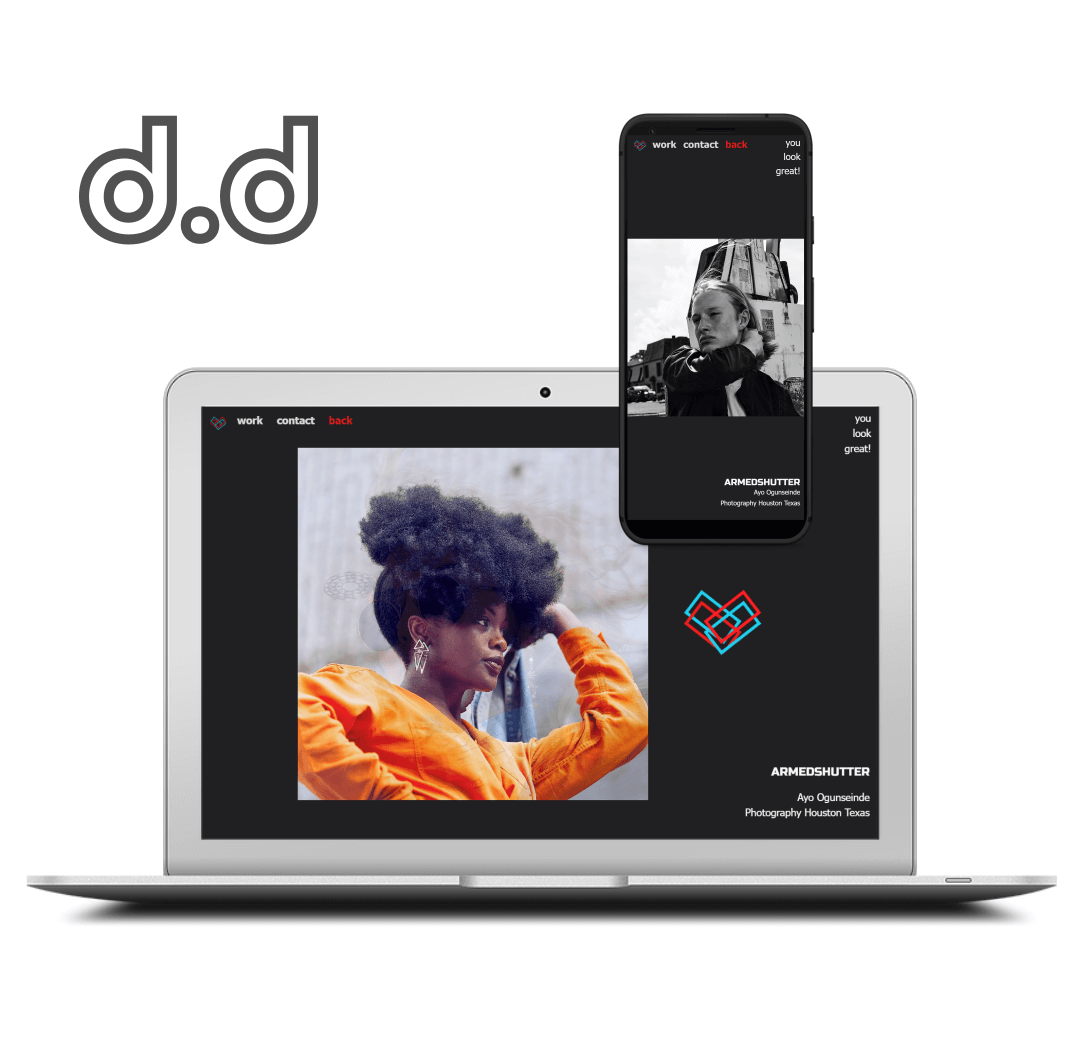
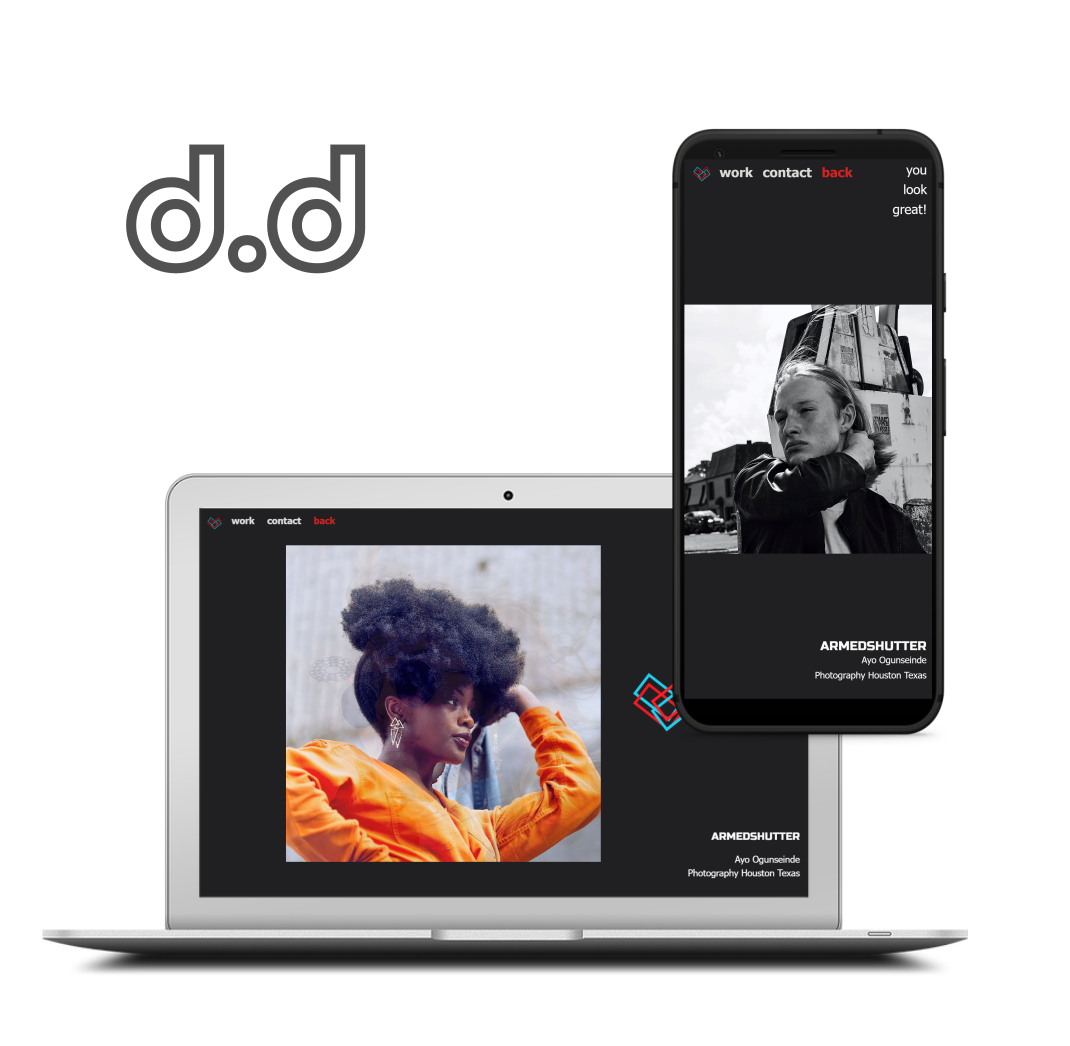
design updates

diff --git a/pages/Case2/DDbranding.js b/pages/Case2/DDbranding.js
@@ -124,13 +124,15 @@ const DDbranding = () => {
                     <h2 className="paragraph py-[10vh] md:ml-[10vw]">DALL-E images using Octarines circles and round elements <br />for social media branding.</h2>
                     <div className="md:w-[75%] flex justify-end my-[10vh] md:ml-[10vw]">
                         <img src='ai1.png'
-                            alt="Image of AI generated images using circles and balls"
+                            alt="Image of AI generated images using circles"
                         /></div>
-                    <div className="md:w-[75%] flex justify-end my-[15vh] md:ml-[10vw]">
+                    <div className="md:w-[75%] flex justify-end my-[15vh] md:ml-[10vw]
+                    border-[1px] border-stone-900">
                         <img src='twi23.png'
                             alt="Image of a Twitter profile header"
                         /></div>
-                    <div className="md:w-[75%] flex justify-end mt-[15vh] md:ml-[10vw]">
+                    <div className="md:w-[75%] flex justify-end mt-[15vh] md:ml-[10vw]  
+                    border-[1px] border-stone-900">
                         <img src='li23.png'
                             alt="Image of a LinkedIn profile header"
                         /></div>
@@ -140,7 +142,7 @@ const DDbranding = () => {
                         Website
                     </h1>
 
-                    <div className="md:w-[35%] flex justify-end my-[15vh] md:ml-[20vw]">
+                    <div className="md:w-[45%] flex justify-end my-[15vh] md:ml-[15vw]">
                         <img src='mobile1.png'
                             alt="Image of a LinkedIn profile header"
                         /></div>
@@ -148,7 +150,7 @@ const DDbranding = () => {
                         <img src='desktop1.png'
                             alt="Image of a LinkedIn profile header"
                         /></div>
-                    <div className="md:w-[55%] flex justify-end my-[15vh] md:ml-[10vw]">
+                    <div className="md:w-[65%] flex justify-end my-[15vh] md:ml-[10vw]">
                         <img src='tablet1.png'
                             alt="Image of a LinkedIn profile header"
                         /></div>

diff --git a/components/Navbar.js b/components/Navbar.js
@@ -10,7 +10,7 @@ const menu = [
 ]
 const Navbar = () => {
     const router = useRouter()
-    const [theme, setTheme] = useState('dark');
+    const [theme, setTheme] = useState('light');
     const toggleTheme = () => {
         if (theme === 'dark') {
             setTheme('light');
@@ -32,9 +32,9 @@ const Navbar = () => {
                     
                     "> d.d</span>
                     </Link>
-                    <h1 className="fixedheader fixed right-[3rem] top-[3rem] opacity-40 
+                    <h1 className="fixedheader fixed right-[3rem] top-[3rem] opacity-80 
                 
-                dark:text-zinc-50/50 dark:opacity-20">digital.dan</h1>
+                dark:text-zinc-50 dark:opacity-20">digital.dan</h1>
 
                     <ul className="flex flex-row items-center space-x-[4vw]">
                         {menu.map((item, index) => {

diff --git a/components/Hero.js b/components/Hero.js
@@ -40,7 +40,7 @@ const Hero = () => {
                         Digital Design & Development<br />
                         Brand & Graphic Design</motion.h2><br/>
                     <motion.section animate={wedesignAnimate2}
-                        className="flex flex-row gap-8 paragraphw">
+                        className="flex flex-row gap-8 paragraphw font-bold">
 
                         <Link href="/Work">
                             <h2 className=" text-amber-900 dark:text-amber-400 cursor-pointer"> work <BsArrowUpRight /></h2>
